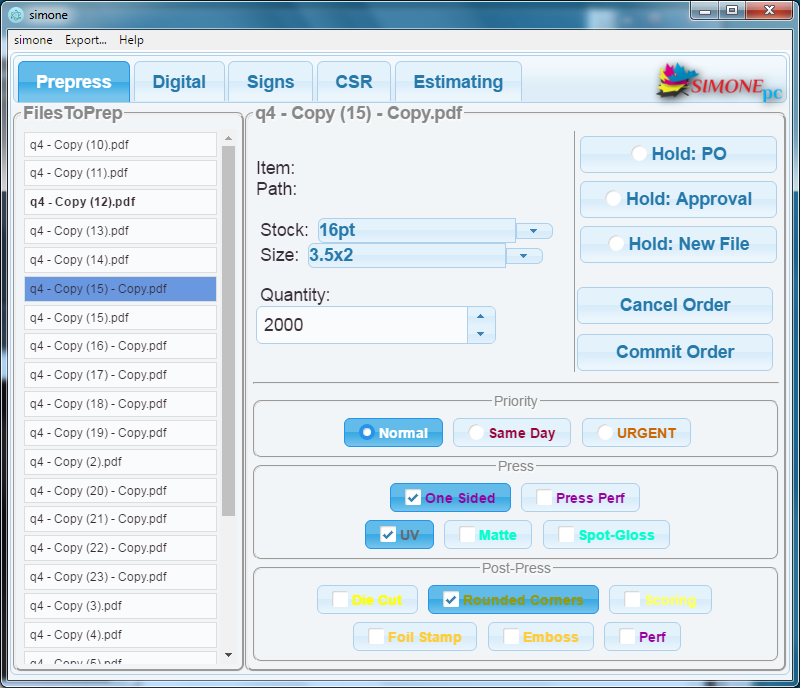
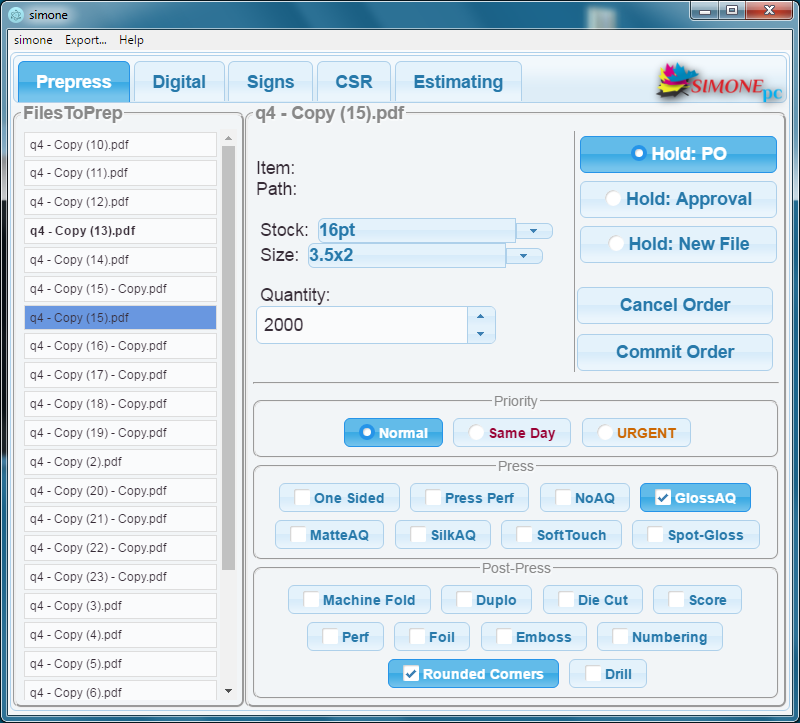
ui updates

Changed region(s): [[0.0, 0.0, 1.0, 1.0], [0.3125, 0.2137, 0.6875, 0.4884], [0.5625, 0.4273, 0.625, 0.4884]]

diff --git a/main.html b/main.html
@@ -107,7 +107,7 @@ text-shadow: 1px 2px 0px rgba(255,255,255,.5); /* 50% white from bottom */
         <div class="files">
           <fieldset style="">
             <legend><b><span id="droppedFolder"><span style="color:green;">Drop folder here</span></span></b></legend>
-            <div style="height:535px;overflow-y:scroll;"
+            <div style="height:571px;overflow-y:scroll;"
               <ol id="filelist" style="overflow:none;">
               </ol>
             </div>
@@ -156,30 +156,44 @@ text-shadow: 1px 2px 0px rgba(255,255,255,.5); /* 50% white from bottom */
                   <input class="check" type="radio" name="urgent" id="urgent" >
               </fieldset>
               <fieldset class="fieldsetsmall"><legend class="small">Press</legend>
-                <label class="small" for="onesided" style="color:rgba(153,0,153,1);">One Sided</label>
+                <label class="small" for="onesided" style="">One Sided</label>
                   <input class="check" type="checkbox" name="onesided" id="onesided">
-                <label class="small" for="pressperf" style="color:rgba(153,0,153,1);">Press Perf</label>
-                  <input class="check" type="checkbox" name="pressperf" id="pressperf"><br />
-                <label class="small" for="uv" style="color:rgba(102,102,102,1);">UV</label>
-                  <input class="check" type="checkbox" name="uv" id="uv">
-                <label class="small" for="matte" style="color:rgba(0,255,204,1);">Matte</label>
-                  <input class="check" type="checkbox" name="matte" id="matte">
-                <label class="small" for="spotgloss" style="color:rgba(0,255,204,1);">Spot-Gloss</label>
+                <label class="small" for="pressperf" style="">Press Perf</label>
+                  <input class="check" type="checkbox" name="pressperf" id="pressperf">
+                <label class="small" for="noaq" style="">NoAQ</label>
+                  <input class="check" type="checkbox" name="noaq" id="noaq">
+                <label class="small" for="glossaq" style="">GlossAQ</label>
+                  <input class="check" type="checkbox" name="glossaq" id="glossaq">
+                <label class="small" for="matteaq" style="">MatteAQ</label>
+                  <input class="check" type="checkbox" name="matteaq" id="matteaq">
+                <label class="small" for="silkaq" style="">SilkAQ</label>
+                  <input class="check" type="checkbox" name="silkaq" id="silkaq">
+                <label class="small" for="softtouch" style="">SoftTouch</label>
+                  <input class="check" type="checkbox" name="softtouch" id="softtouch">
+                <label class="small" for="spotgloss" style="">Spot-Gloss</label>
                   <input class="check" type="checkbox" name="spotgloss" id="spotgloss">
               </fieldset>
               <fieldset class="fieldsetsmall"><legend class="small">Post-Press</legend>
-                <label class="small" for="diecut" style="color:rgba(255,255,0,1);">Die Cut</label>
+                <label class="small" for="machinefold" style="">Machine Fold</label>
+                  <input class="check" type="checkbox" name="machinefold" id="machinefold">
+                <label class="small" for="duplo" style="">Duplo</label>
+                  <input class="check" type="checkbox" name="duplo" id="duplo">
+                <label class="small" for="diecut" style="">Die Cut</label>
                   <input class="check" type="checkbox" name="diecut" id="diecut">
-                <label class="small" for="roundedcorners" style="color:rgba(153,153,0,1);">Rounded Corners</label>
-                  <input class="check" type="checkbox" name="roundedcorners" id="roundedcorners">
-                <label class="small" for="scoring" style="color:rgba(255,255,102,1);">Scoring</label>
-                  <input class="check" type="checkbox" name="scoring" id="scoring">
-                <label class="small" for="foilstamp" style="color:rgba(255,204,51,1);">Foil Stamp</label>
-                  <input class="check" type="checkbox" name="foilstamp" id="foilstamp">
-                <label class="small" for="emboss" style="color:rgba(255,204,51,1);">Emboss</label>
-                  <input class="check" type="checkbox" name="emboss" id="emboss">
-                <label class="small" for="perf" style="color:rgba(153,0,153,1);">Perf</label>
+                <label class="small" for="score" style="">Score</label>
+                  <input class="check" type="checkbox" name="score" id="score">
+                <label class="small" for="perf" style="">Perf</label>
                   <input class="check" type="checkbox" name="perf" id="perf">
+                <label class="small" for="foil" style="">Foil</label>
+                  <input class="check" type="checkbox" name="foil" id="foil">
+                <label class="small" for="emboss" style="">Emboss</label>
+                  <input class="check" type="checkbox" name="emboss" id="emboss">
+                <label class="small" for="numbering" style="">Numbering</label>
+                  <input class="check" type="checkbox" name="numbering" id="numbering">
+                <label class="small" for="roundedcorners" style="">Rounded Corners</label>
+                  <input class="check" type="checkbox" name="roundedcorners" id="roundedcorners">
+                <label class="small" for="drill" style="">Drill</label>
+                  <input class="check" type="checkbox" name="drill" id="drill">
                 </fieldset>
                 </center>
           </ol>

diff --git a/simone.js b/simone.js
@@ -25,7 +25,7 @@ function createMainWindow () {
   var dimensions = mainScreen.size;
 
   // Create the browser window.
-  mainWindow = new BrowserWindow({width: 800, height: 688,
+  mainWindow = new BrowserWindow({width: 800, height: 723,
     transparent: false,frame: true,toolbar: true,resizable: true,titleBarStyle:'default',type:'textured',kiosk: false,acceptFirstMouse: false})
 
   mainWindow.setPosition(dimensions.width-800, 1)
